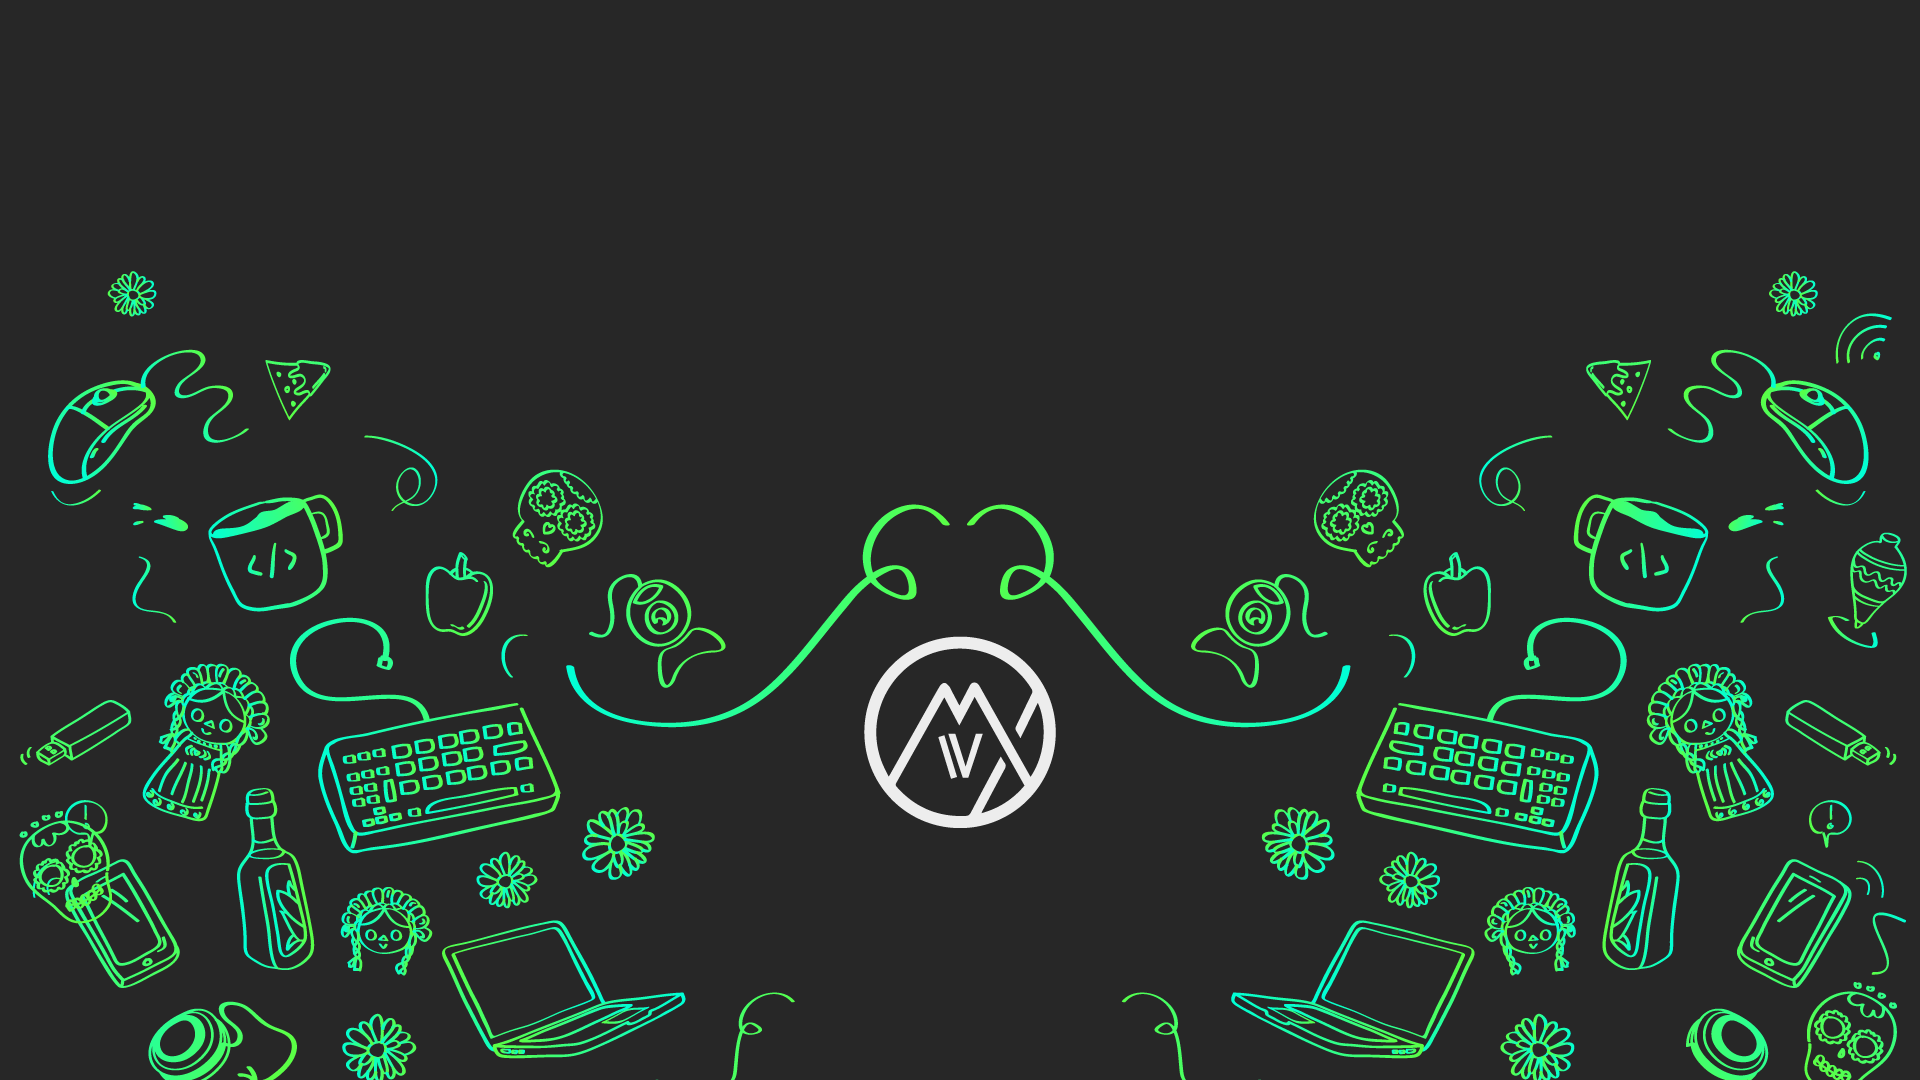
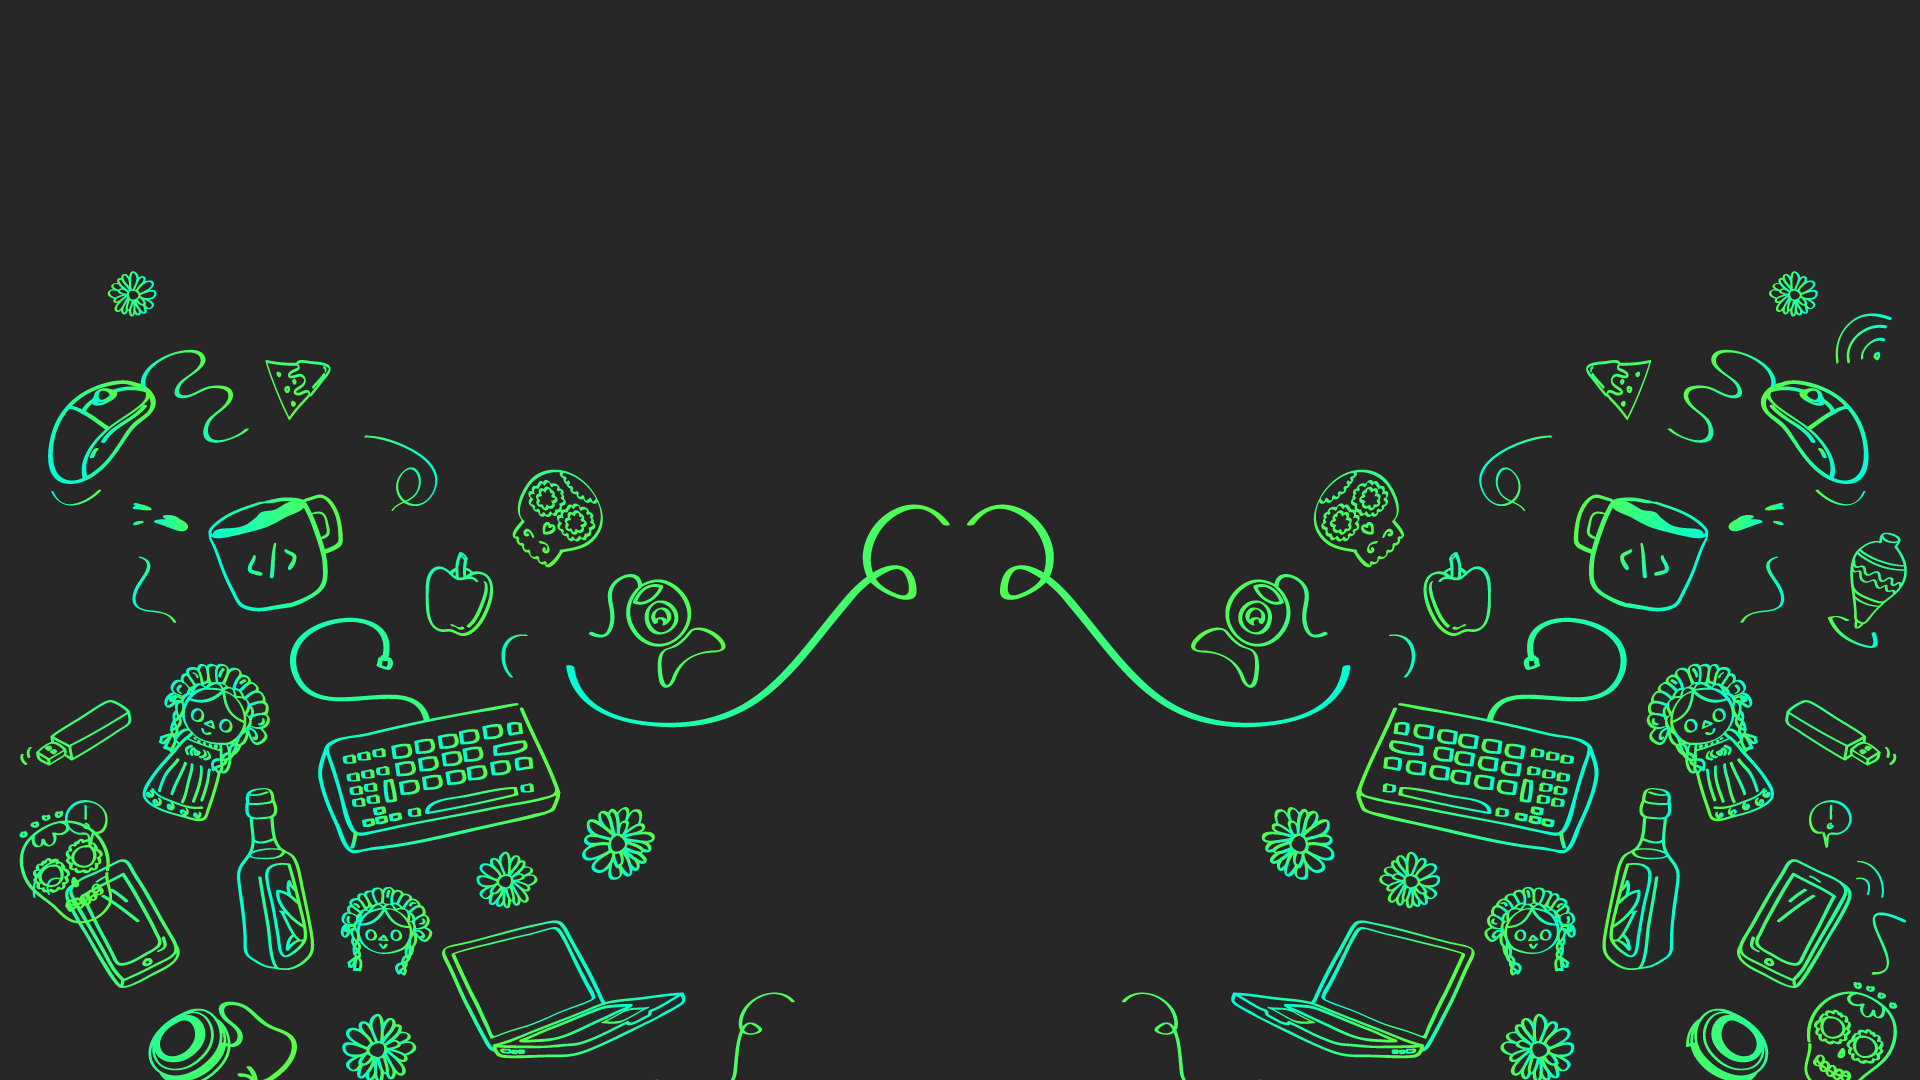
mobile changes

Changed region(s): [[0.4375, 0.5806, 0.5625, 0.7639]]

diff --git a/app/equipo/equipo.js b/app/equipo/equipo.js
@@ -28,7 +28,7 @@
     descripcionCorta:'He sido parte de la Major League Hacking (MLH) por aproximadamente dos años y el MXHacks IV es el tercer MXHacks que soy parte del comité organizador.',
     descripcion:'Fui co-fundadora del Google Developer Group Polymer México y Wonder Coders. En el pasado trabajé como sensei en Devf y actualmente soy parte de una Startup llamada Alter'
   },{
-    nombre:'Luis',
+    nombre:'Alberto',
     nombreCompleto:'Luis Alberto Villeda',
     carrera:'Logística',
     foto:'luis2.png',
@@ -38,21 +38,21 @@
     descripcion:'Entusiasta del trabajo colaborativo y estudiante de ingeniería en computación en la Facultad de Ingeniería de la UNAM, actualmente soy coach en la Major League Hacking, una organización internacional que se dedica a hacer hackathons todo el mundo para animar más aún estudiantes para crear algo sorprendente. He conocido a muchas personas del entorno empresarial , la tecnología y los hackers que son grandes fuentes de inspiración , algunos que he tenido oportunidad de enseñarles algo , pero en muchas ocasiones me he dado grandes lecciones . '
   },{
     nombre:'Danna',
-    nombreCompleto:'',
+    nombreCompleto:'Danna Kiedis',
     carrera:'lic',
     foto:'danna.png',
     twitter:'danna_kiedis',
-    subtitulo:'',
-    descripcionCorta:'',
+    subtitulo:'Publicista por profesión, hacker por vocación.',
+    descripcionCorta:'Fundadora de .SABLE., un estudio dedicado al desarrollo de creatividad digital basada en nuevas tecnologías, junto a su equipo desarrollo y diseño MX Hacks IV basado en querer demostrar que en México también hay talento para desarrollar ideas. Amante de la organización y la creatividad, busca lograr la integración de más mujeres a la tecnología, actualmente es líder de la comunidad de Epic Queen CDMX. Parte del bacth 5 de Dev.f, emprendedora y amante del tequila. ',
     descripcion:''
   },{
-    nombre:'Rulo',
-    nombreCompleto:'',
-    carrera:'lic',
+    nombre:'Rulótico',
+    nombreCompleto:'Rulótico González',
+    carrera:'Interactive Design',
     foto:'rulo.png',
     twitter:'rulotico',
     subtitulo:'',
-    descripcionCorta:'',
+    descripcionCorta:'Diseñador Interactivo, creativo, coder, designer, motion, cool guy, inventor y dance dance baby, me encuentras como rulotico y la prueba de que los unicornios si existen (code + design)',
     descripcion:''
   },{
     nombre:'Pablo',
@@ -89,7 +89,7 @@
     twitter:'@alejandrotapiab',
     subtitulo:'',
     descripcionCorta:'Growth Hacker" Mentor y Consultor de Marketing Digital y Comercio Electrónico',
-    descripcion:''
+    descripcion:'Growth Hacker" Mentor y Consultor de Marketing Digital y Comercio Electrónico'
   },{
     nombre:'Carmen',
     nombreCompleto:'Carmen Cuevas',
@@ -100,14 +100,14 @@
     descripcionCorta:'Ella podrá ayudarte a crear y desarrollarte en esté maratón.',
     descripcion:'Organizadora y embajadora del GDG WonderCoders, Voluntaria en Voluntarios México, le apasiona transmitir sus conocimientos mediante eventos incluyentes. '
   },{
-    nombre:'LuisT',
+    nombre:'Luis',
     nombreCompleto:'Luis Trujillo',
     carrera:'Logística & patrocinios',
     foto:'luis.png',
     twitter:'LuisTruVa',
     subtitulo:'',
-    descripcionCorta:'',
-    descripcion:''
+    descripcionCorta:'Estudiante/persona/joven emprendedor buscando nuevas oportunidades de aprender y conocer gente nueva. También tiene muchas ganas de cambiar el lugar donde vivimos por medio de la tecnología.',
+    descripcion:'Estudiante/persona/joven emprendedor buscando nuevas oportunidades de aprender y conocer gente nueva. También tiene muchas ganas de cambiar el lugar donde vivimos por medio de la tecnología.'
   },{
     nombre:'Vero',
     nombreCompleto:'Verónica Jaramillo',
@@ -118,7 +118,7 @@
     descripcionCorta:'Mi primer hackathon fue MXHacks II, estuve también en el III así como en el hackathon y conferencia de Wikimanía 15.',
     descripcion:'Forme parte de un grupo de alumnos de la UNAM que participaron en la creación de un artículo científico con la Stanford University y en 2015 di una charla ignite en el DEV DAY 4 WOMAN'
   },{
-    nombre:'Ilario',
+    nombre:'Hilario',
     nombreCompleto:'',
     carrera:'Lic. En Música',
     foto:'luis3.png',

diff --git a/index.html b/index.html
@@ -7,6 +7,30 @@
     <meta name="viewport" content="width=device-width, initial-scale=1">
   <title>Mx Hacks IV</title>
   <link rel="icon" href="favicon.ico" type="image/x-icon" />
+
+<!-- =========================================================   -->
+
+<!-- Twitter Card data -->
+<meta name="twitter:card" content="Mx Hacks IV">
+<meta name="twitter:site" content="@mx_hacks">
+<meta name="twitter:title" content="Mx Hacks IV | Registrate Ya">
+<meta name="twitter:description" content="MxHacks es el Hackathon más grande de Latinoamérica donde crearás y desarrollarás lado a lado de personas con el mismo increíble potencial creativo que tú.">
+<meta name="twitter:creator" content="@author_handle">
+
+<meta name="twitter:image" content="http://mxhacks.mx/face-mx.png">
+
+<!-- Open Graph data -->
+<meta property="og:title" content="Mx Hacks IV" />
+<meta property="og:type" content="website" />
+<meta property="og:url" content="http://mxhacks.mx/" />
+<meta property="og:image" content="https://mxhacks.mx/assets/img/face-mx.png" />
+<meta property="og:description" content="MxHacks es el Hackathon más grande de Latinoamérica donde crearás y desarrollarás lado a lado de personas con el mismo increíble potencial creativo que tú." /> 
+<meta property="og:site_name" content="Mx Hacks IV" />
+
+
+<!-- =========================================================   -->
+
+
   <link rel="icon" href="/assets/img/logo.svg" type="image/x-icon"/>
   <link href="/bower_components/bootstrap/dist/css/bootstrap.min.css" rel="stylesheet" />
   <link href="/bower_components/font-awesome/css/font-awesome.min.css" rel="stylesheet" />

diff --git a/app/footer/footer.html b/app/footer/footer.html
@@ -1,5 +1,6 @@
 <footer id="footer" class="col-xs-12 fixit">
   <div class="redesFooter text-center">
+    <img src="assets/img/logo.svg" alt="">
     <ul>
       <li><a href="https://www.facebook.com/MXHacks" target="_blank"><i class="fa fa-facebook-official" aria-hidden="true"></i></a></li>
       <li><a href="https://twitter.com/mx_hacks" target="_blank"><i class="fa fa-twitter" aria-hidden="true"></i></a></li>

diff --git a/assets/css/home.css b/assets/css/home.css
@@ -66,3 +66,9 @@
    background-color: #c70c3f;
    color: #961236;
 }
+
+@media (max-width: 780px) {
+  #home {
+  background-image: url(../img/fondos/mobile_index.png);
+  }
+}

diff --git a/assets/css/footer.css b/assets/css/footer.css
@@ -6,7 +6,7 @@
 }
 .redesFooter {
   position: absolute;
-  bottom: 75px;
+      bottom: 2em;
   width: 100%;
 }
 .redesFooter ul {
